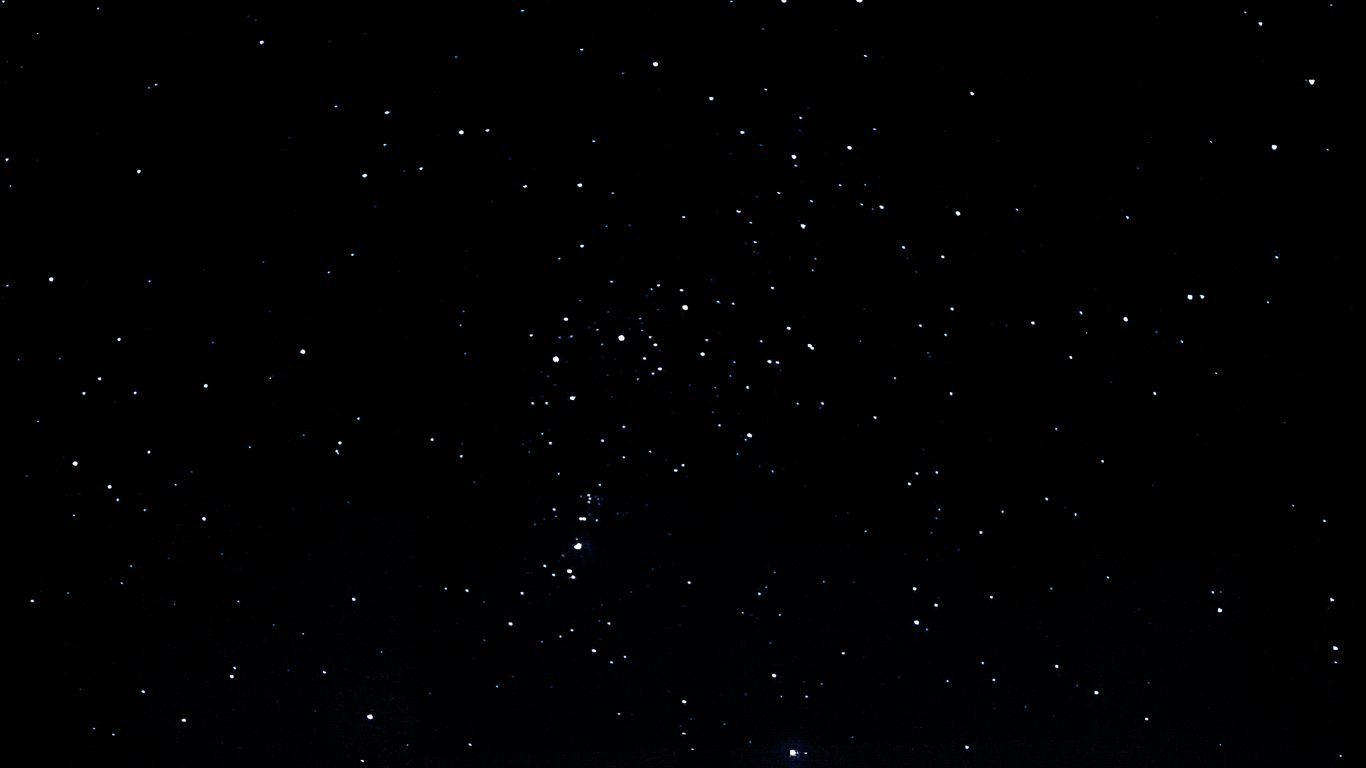
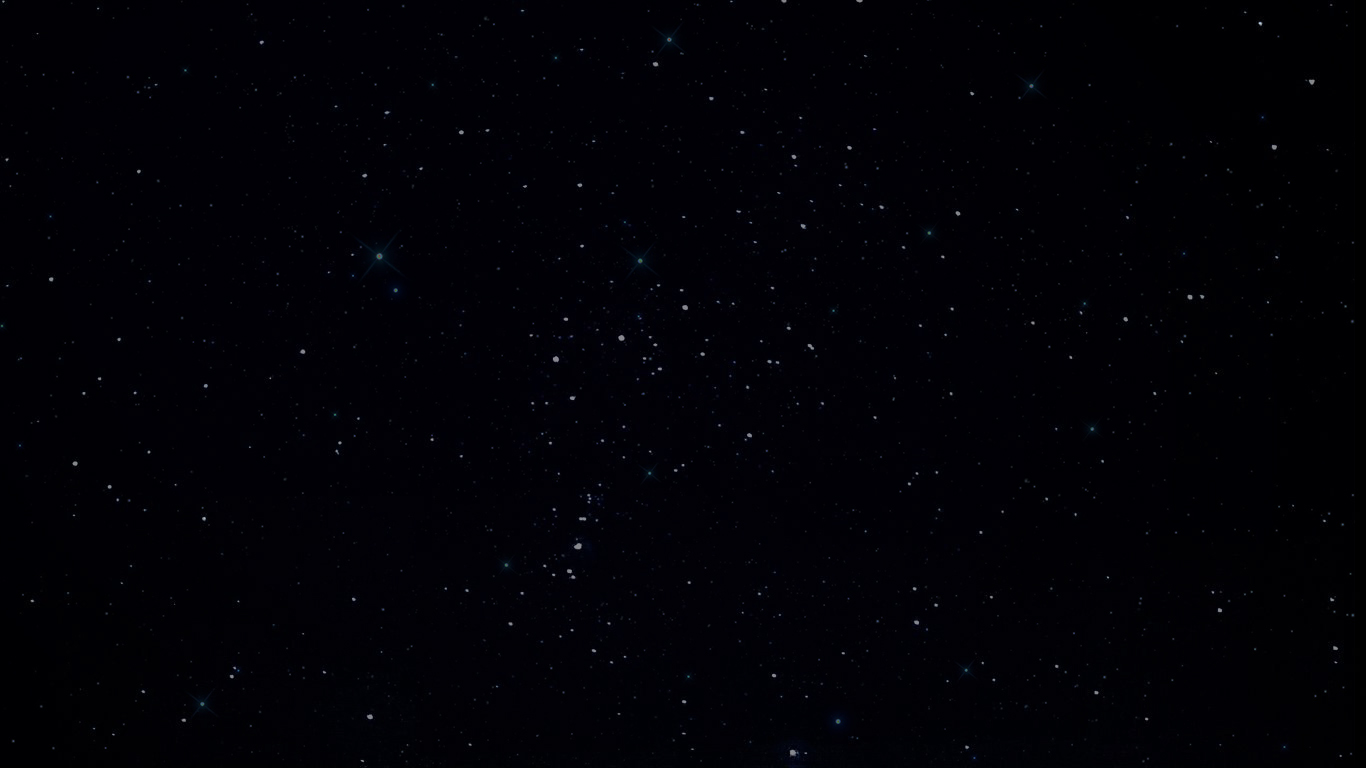
balance refactoring, added Image in start menu

Changed region(s): [[0.2767, 0.3125, 0.3075, 0.3438]]

diff --git a/app/src/main/java/com/example/spacecleaner/generation/Background.java b/app/src/main/java/com/example/spacecleaner/generation/Background.java
@@ -1,7 +1,5 @@
 package com.example.spacecleaner.generation;
 
-import android.graphics.Bitmap;
-
 import android.graphics.Point;
 
 import com.example.my_framework.GraphicsFW;
@@ -14,15 +12,17 @@ import java.util.ArrayList;
 public class Background implements IDrawable
 {
     final public ArrayList<Star> stars = new ArrayList<>();
-    final public ArrayList<Star> bigStars = new ArrayList<>();
-    final private Bitmap starSky;
+    final public ArrayList<Star> bigStars1 = new ArrayList<>();
+    final public ArrayList<Star> bigStars2 = new ArrayList<>();
+    final public ArrayList<Star> garbage1 = new ArrayList<>();
+    final public ArrayList<Star> garbage2 = new ArrayList<>();
 
     public Background(Point displaySize, int height)
     {
-        starSky = Resource.starSky;
 
         final int STARS_COUNT = 100;
-        final int BIG_STARS_COUNT = 20;
+        final int BIG_STARS_COUNT = 10;
+        final int GARBAGE_COUNT = 20;
 
         for (int i = 0; i < STARS_COUNT; ++i)
             stars.add(new Star(displaySize, height));
@@ -30,8 +30,17 @@ public class Background implements IDrawable
         for (int i = 0; i < BIG_STARS_COUNT; ++i)
         {
             Star star = new Star(displaySize, height);
-            star.speed = star.speed - (int)(Math.random( ) * 10);
-            bigStars.add(star);
+            Star star2 = new Star(displaySize, height);
+            bigStars1.add(star);
+            bigStars2.add(star2);
+        }
+
+        for (int i = 0; i < GARBAGE_COUNT; ++i)
+        {
+            Star star = new Star(displaySize, height);
+            Star star2 = new Star(displaySize, height);
+            garbage1.add(star);
+            garbage2.add(star2);
         }
 
     }
@@ -42,19 +51,37 @@ public class Background implements IDrawable
         for (Star star: stars)
              star.update();
 
-        for (Star star: bigStars)
+        for (Star star: bigStars1)
+            star.update();
+
+        for (Star star: bigStars2)
+            star.update();
+
+        for (Star star: garbage1)
+            star.update();
+
+        for (Star star: garbage2)
             star.update();
     }
 
     @Override
     public void drawing(GraphicsFW graphicsFW)
     {
-        graphicsFW.drawTexture(starSky, new Point(0, 0));
+        graphicsFW.drawTexture(Resource.starSky, new Point(0, 0));
 
         for (Star star: stars)
             star.drawing(graphicsFW);
 
-        for (Star star: bigStars)
+        for (Star star: bigStars1)
             graphicsFW.drawTexture(Resource.bigStarSprite.get(0), star.position);
+
+        for (Star star: bigStars2)
+            graphicsFW.drawTexture(Resource.bigStarSprite.get(1), star.position);
+
+        for (Star star: garbage1)
+            graphicsFW.drawTexture(Resource.bigStarSprite.get(2), star.position);
+
+        for (Star star: garbage2)
+            graphicsFW.drawTexture(Resource.bigStarSprite.get(3), star.position);
     }
 }

diff --git a/app/src/main/java/com/example/spacecleaner/scene/MainMenu.java b/app/src/main/java/com/example/spacecleaner/scene/MainMenu.java
@@ -1,5 +1,6 @@
 package com.example.spacecleaner.scene;
 
+import android.graphics.Bitmap;
 import android.graphics.Color;
 import android.graphics.Point;
 
@@ -7,16 +8,18 @@ import com.example.my_framework.CoreFW;
 import com.example.my_framework.SceneFW;
 import com.example.my_framework.StaticTextFW;
 import com.example.spacecleaner.R;
+import com.example.spacecleaner.utilities.Resource;
 import com.example.spacecleaner.utilities.Save;
 
 public class MainMenu extends SceneFW
 {
-    private final StaticTextFW Title = new StaticTextFW(coreFW.getString(R.string.txtMainMenuNameGame), new Point(50, 100), Color.BLUE, 100);
-    private final StaticTextFW MenuStart = new StaticTextFW(coreFW.getString(R.string.txtMainMenuStartGame), new Point(50, 300), Color.BLUE, 60);
-    private final StaticTextFW MenuSettings = new StaticTextFW(coreFW.getString(R.string.txtMainMenuMenuSettings), new Point(50, 400), Color.BLUE, 60);
-    private final StaticTextFW MenuResults = new StaticTextFW(coreFW.getString(R.string.txtMainMenuResult), new Point(50, 500), Color.BLUE, 60);
-    private final StaticTextFW MenuExit = new StaticTextFW(coreFW.getString(R.string.txtMainMenuExitGame), new Point(50, 600), Color.BLUE, 60);
+    private final StaticTextFW Title = new StaticTextFW(coreFW.getString(R.string.txtMainMenuNameGame), new Point(50, 100), Color.WHITE, 100);
+    private final StaticTextFW MenuStart = new StaticTextFW(coreFW.getString(R.string.txtMainMenuStartGame), new Point(50, 300), Color.WHITE, 60);
+    private final StaticTextFW MenuSettings = new StaticTextFW(coreFW.getString(R.string.txtMainMenuMenuSettings), new Point(50, 400), Color.WHITE, 60);
+    private final StaticTextFW MenuResults = new StaticTextFW(coreFW.getString(R.string.txtMainMenuResult), new Point(50, 500), Color.WHITE, 60);
+    private final StaticTextFW MenuExit = new StaticTextFW(coreFW.getString(R.string.txtMainMenuExitGame), new Point(50, 600), Color.WHITE, 60);
     private Save save;
+
 
     public MainMenu(CoreFW coreFW, Save save)
     {
@@ -55,7 +58,7 @@ public class MainMenu extends SceneFW
     @Override
     public void drawing()
     {
-        graphicsFW.clearScene(Color.GREEN);
+        graphicsFW.drawTexture(Resource.menuImage, new Point(0, 0));
         graphicsFW.drawText(Title);
         graphicsFW.drawText(MenuStart);
         graphicsFW.drawText(MenuSettings);

diff --git a/app/src/main/java/com/example/spacecleaner/scene/Results.java b/app/src/main/java/com/example/spacecleaner/scene/Results.java
@@ -7,6 +7,7 @@ import com.example.my_framework.CoreFW;
 import com.example.my_framework.SceneFW;
 import com.example.my_framework.StaticTextFW;
 import com.example.spacecleaner.R;
+import com.example.spacecleaner.utilities.Resource;
 import com.example.spacecleaner.utilities.Save;
 
 import java.util.Locale;
@@ -14,8 +15,8 @@ import java.util.Locale;
 public class Results extends SceneFW
 {
     private final StaticTextFW[] Numbers = new StaticTextFW[5];
-    private final StaticTextFW BestResults = new StaticTextFW(coreFW.getString(R.string.txtBestResults), new Point(50, 100), Color.BLUE, 100);
-    private final StaticTextFW Back = new StaticTextFW(coreFW.getString(R.string.txtBack), new Point(50, 650), Color.BLUE, 70);
+    private final StaticTextFW BestResults = new StaticTextFW(coreFW.getString(R.string.txtBestResults), new Point(50, 100), Color.WHITE, 100);
+    private final StaticTextFW Back = new StaticTextFW(coreFW.getString(R.string.txtBack), new Point(50, 650), Color.WHITE, 70);
 
     private Save save;
 
@@ -32,7 +33,7 @@ public class Results extends SceneFW
         for (int i = 0; i < Numbers.length; ++i)
         {
             String text = String.format(Locale.getDefault(), "%d. %d", i + 1, save.getDistance()[i]);
-            this.Numbers[i] = new StaticTextFW(text, new Point(position), Color.BLUE, 50);
+            this.Numbers[i] = new StaticTextFW(text, new Point(position), Color.WHITE, 50);
             position.y += RESULT_STEP_Y;
         }
     }
@@ -51,7 +52,7 @@ public class Results extends SceneFW
     @Override
     public void drawing()
     {
-        graphicsFW.clearScene(Color.GREEN);
+        graphicsFW.drawTexture(Resource.menuImage, new Point(0, 0));
         graphicsFW.drawText(BestResults);
         graphicsFW.drawText(Back);
 

diff --git a/app/src/main/java/com/example/spacecleaner/objects/Player.java b/app/src/main/java/com/example/spacecleaner/objects/Player.java
@@ -30,12 +30,10 @@ public class Player extends ObjectFW implements IDrawable
 
     private boolean hitAsteroid = false;
     private boolean isGameOver = false;
-    public boolean isSpeed = false;
     public boolean hitShield = false;
     private boolean isUp = false;
 
     private TimerDelay damageDelay = new TimerDelay();
-    public TimerDelay speedDelay = new TimerDelay();
     public TimerDelay shieldDelay = new TimerDelay();
 
     public Player(CoreFW coreFW, Point maxScreen, int height)
@@ -67,14 +65,7 @@ public class Player extends ObjectFW implements IDrawable
         if (coreFW.getTouchListenerFW().getTouchUp(screen))
             stop();
 
-        if (speedDelay.isElapsed(5))
-        {
-            isSpeed = false;
-            --speed;
-            speedDelay.stop();
-        }
-
-        if (shieldDelay.isElapsed(3))
+        if (shieldDelay.isElapsed(2))
         {
             hitShield = false;
         }
@@ -169,6 +160,7 @@ public class Player extends ObjectFW implements IDrawable
         {
             --speed;
             --shields;
+            ++dexterity;
             hitAsteroid = true;
             damageDelay.start();
             coreFW.getSoundFW().start(R.raw.damage);

diff --git a/app/src/main/java/com/example/spacecleaner/classes/Manager.java b/app/src/main/java/com/example/spacecleaner/classes/Manager.java
@@ -37,7 +37,7 @@ public class Manager
 
     public Manager(CoreFW coreFW, Point displaySize)
     {
-        int ASTEROIDS_COUNT = 2;
+        int ASTEROIDS_COUNT = 3;
         this.maxScreen = displaySize;
 
         background = new Background(displaySize, HUD_HEIGHT);
@@ -81,7 +81,6 @@ public class Manager
         optional.ifPresent(asteroid -> {
             player.hitObject();
             asteroid.restartFromInitialPosition();
-            asteroids.forEach(object -> --object.speed);
 
             if (player.isDead())
                 gameOverDelay.start();
@@ -98,10 +97,8 @@ public class Manager
         {
             bonusSpeed.restartFromInitialPosition();
 
-            player.speedDelay.start();
-            player.isSpeed = true;
             player.speed += 2;
-            ++player.dexterity;
+            --player.dexterity;
         }
     }
 

diff --git a/my_framework/src/main/java/com/example/my_framework/AnimationFW.java b/my_framework/src/main/java/com/example/my_framework/AnimationFW.java
@@ -7,8 +7,9 @@ import java.util.ArrayList;
 
 public class AnimationFW
 {
-    int frameIndex;
+    private int frameIndex;
     private final  ArrayList<Bitmap> sprite;
+    private int speedAnimation = 2;
 
     public AnimationFW(ArrayList<Bitmap> sprite)
     {
@@ -17,14 +18,17 @@ public class AnimationFW
 
     public void runAnimation()
     {
-        if (++frameIndex >= sprite.size())
+        if (--speedAnimation > 0)
         {
-            frameIndex = 0;
+            if (++frameIndex >= sprite.size())
+                frameIndex = 0;
         }
+        else
+            speedAnimation = 2;
     }
 
     public void drawingAnimation(GraphicsFW graphicsFW, Point position)
     {
-       graphicsFW.drawTexture(sprite.get(frameIndex), position);
+            graphicsFW.drawTexture(sprite.get(frameIndex), position);
     }
 }

diff --git a/app/src/main/java/com/example/spacecleaner/scene/GameScene.java b/app/src/main/java/com/example/spacecleaner/scene/GameScene.java
@@ -60,6 +60,7 @@ public class GameScene extends SceneFW
             ++manager.player.level;
             ++manager.player.shields;
             ++manager.player.speed;
+            ++manager.player.dexterity;
 
 
             powerUpDelay.start();
@@ -71,9 +72,10 @@ public class GameScene extends SceneFW
 
             for (Star star : manager.background.stars)
                 ++star.speed;
-
-            for (Asteroid ast: manager.asteroids)
-                ast.speed = ast.speed + 2;
+            for (Star star : manager.background.bigStars1)
+                ++star.speed;
+            for (Star star : manager.background.bigStars2)
+                ++star.speed;
         }
     }
 

diff --git a/my_framework/src/main/java/com/example/my_framework/LoopFW.java b/my_framework/src/main/java/com/example/my_framework/LoopFW.java
@@ -8,7 +8,7 @@ import android.view.SurfaceView;
 
 public class LoopFW extends SurfaceView implements Runnable
 {
-    private final int FPS = 40;
+    private final int FPS = 30;
     private boolean running = false;
 
     private Thread gameThread = null;

diff --git a/my_framework/src/main/java/com/example/my_framework/ObjectFW.java b/my_framework/src/main/java/com/example/my_framework/ObjectFW.java
@@ -8,7 +8,7 @@ public abstract class ObjectFW
 {
     public Rect screen = new Rect();
     public Point position = new Point();
-    public int speed = 20;
+    public int speed = 10;
     protected Rect hitBox = new Rect();
     protected int radius;
 

diff --git a/app/src/main/java/com/example/spacecleaner/objects/Star.java b/app/src/main/java/com/example/spacecleaner/objects/Star.java
@@ -24,7 +24,7 @@ public class Star extends ObjectFW implements IDrawable
     @Override
     public void update()
     {
-        position.x -= speed;
+        position.x -= speed * Math.random();
 
         if (position.x < -100)
         {
